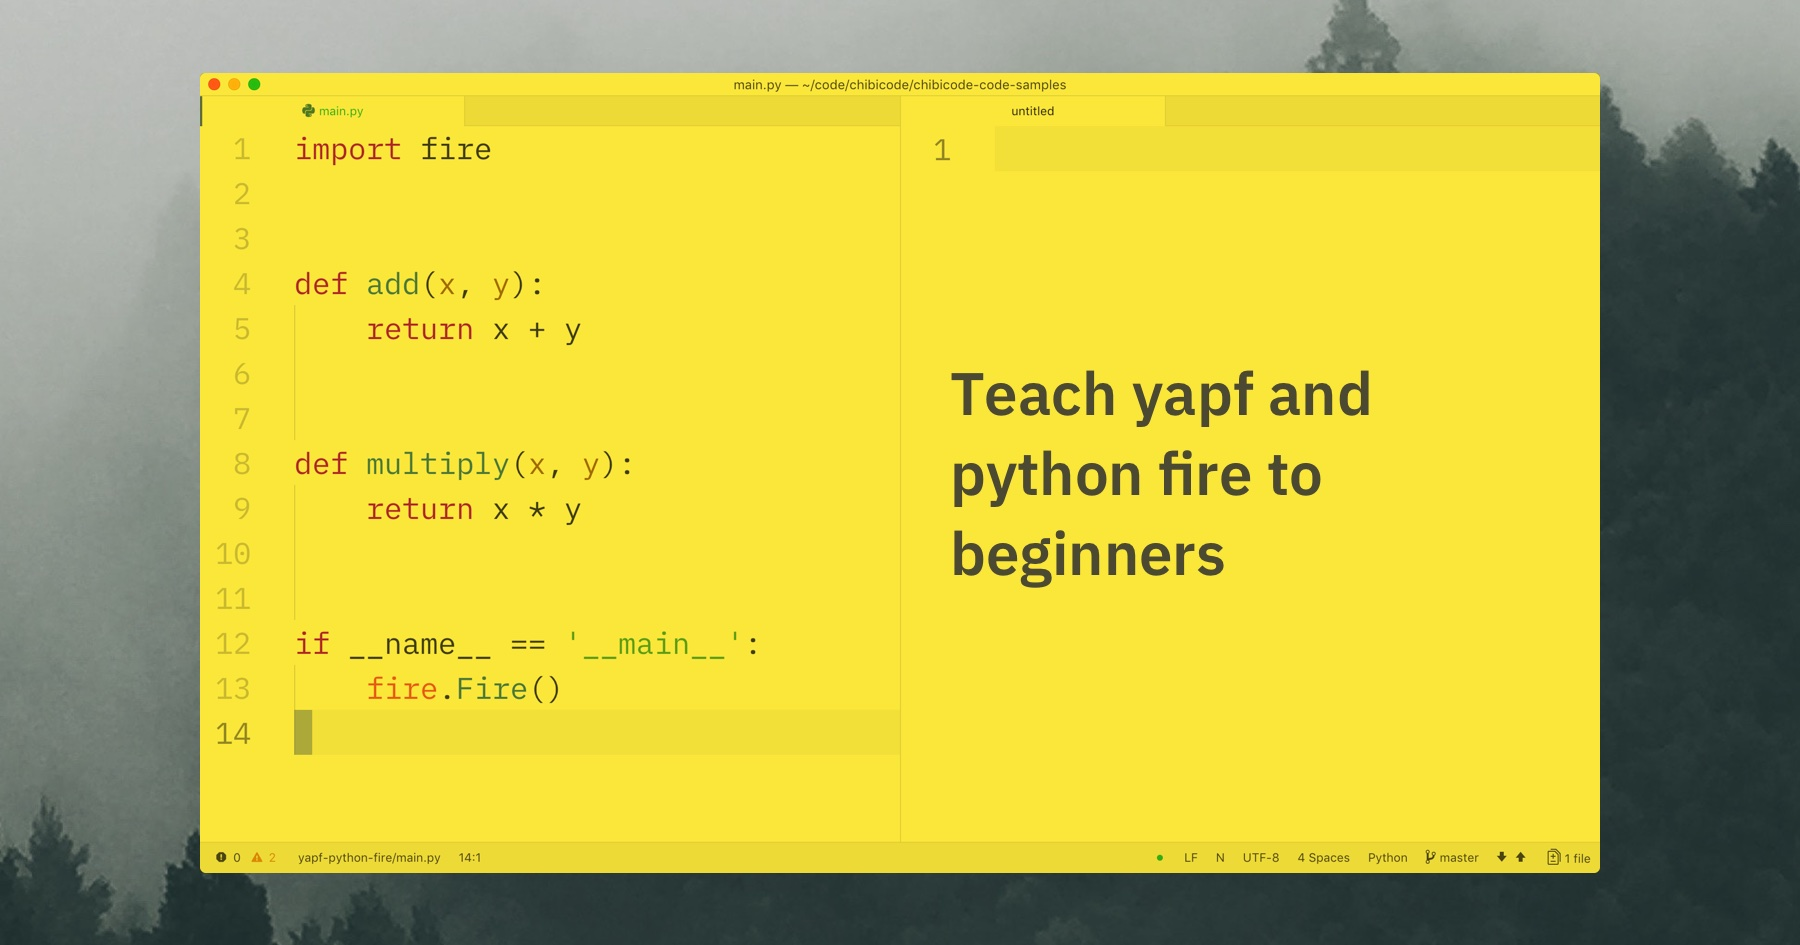
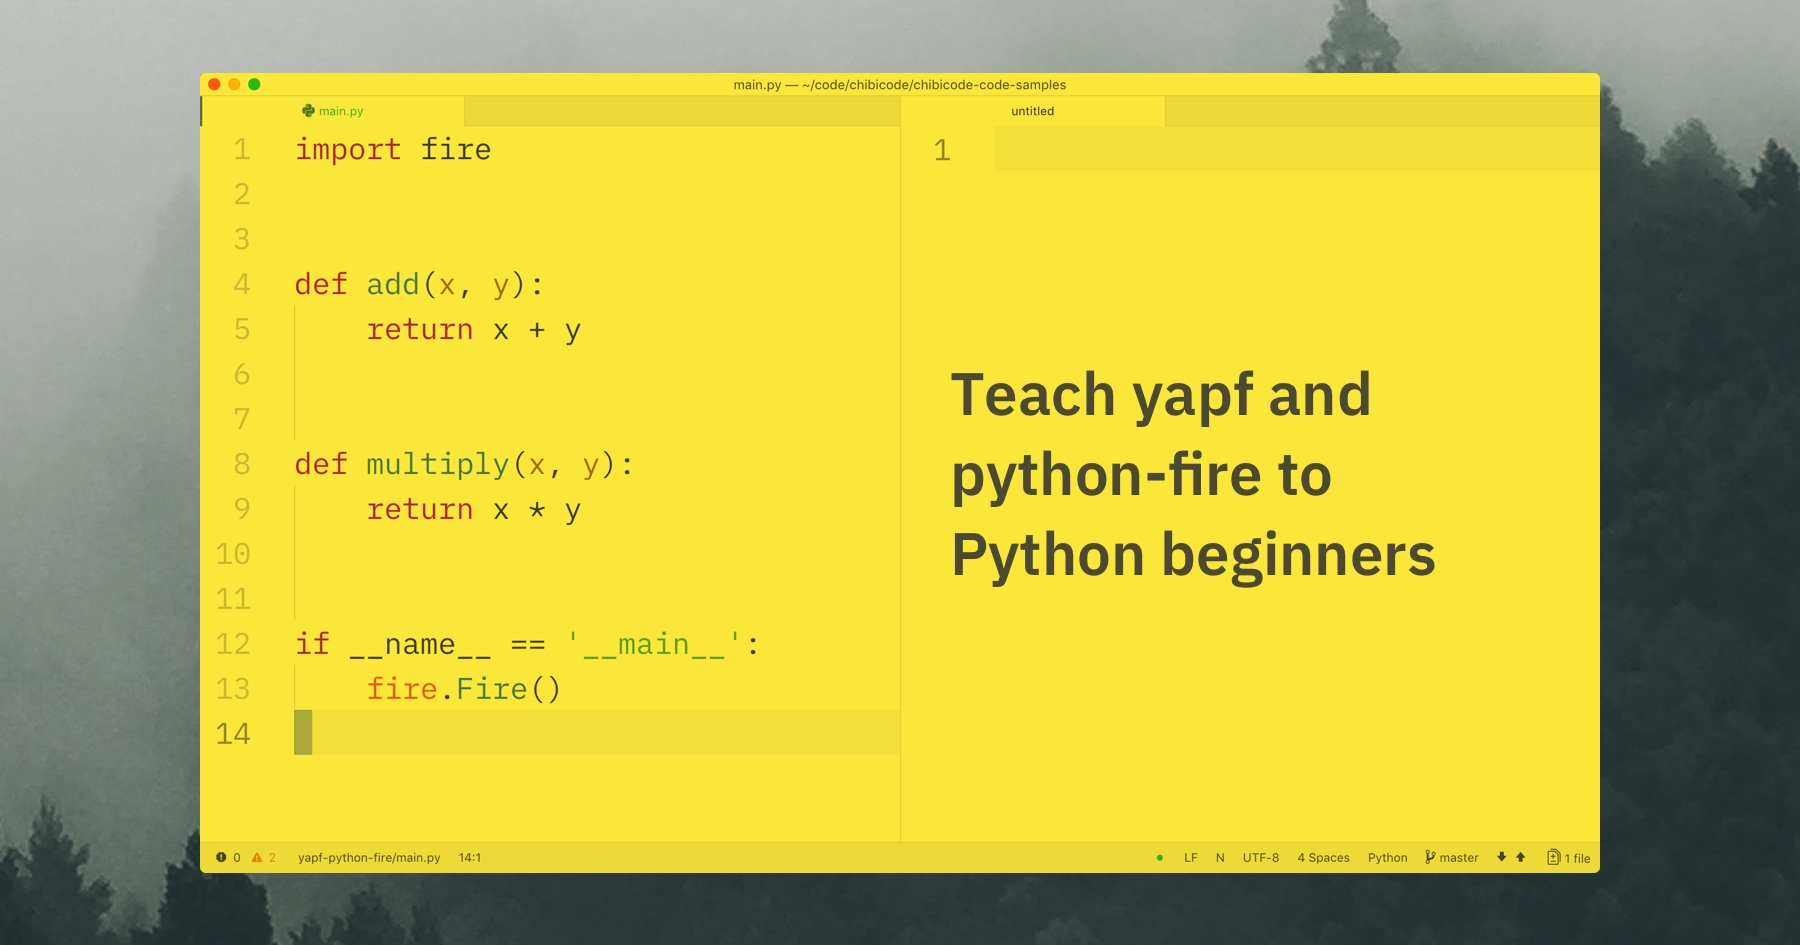
yapf and python fire

Changed region(s): [[0.5289, 0.5524, 0.8089, 0.6444], [0.6222, 0.4603, 0.7467, 0.5217]]

diff --git a/src/pages/posts/yapf-python-fire/index.md b/src/pages/posts/yapf-python-fire/index.md
@@ -1,7 +1,187 @@
 ---
-title: 'Teach yapf and python fire to beginners'
+title: 'Teach yapf and python-fire to python beginners'
 date: "2018-03-27T02:00:00.000Z"
 image: "./cover.jpg"
-draft: true
 twitterId: null
 ---
+
+As of today, Google has released two popular Python tools:
+
+* **[`yapf`](https://github.com/google/yapf)** (released [3 years ago](https://opensource.googleblog.com/2015/03/how-to-format-python-code-without.html))
+* **[`python-fire`](https://github.com/google/python-fire)** (released [1 year ago](https://opensource.googleblog.com/2017/03/python-fire-command-line.html)).
+
+I'm currently teaching Python to a beginner programmer, and I found that these tools work great for beginners. Here's why.
+
+<post-separator></post-separator>
+
+**First, some background:** Here's a quote from David Robinson, a Chief Data Scientist at DataCamp.
+
+The title of the article is: **[Don't teach students the hard way first](http://varianceexplained.org/r/teach-hard-way/)**.
+
+> I talk to people about teaching a lot, and that phrase keeps popping up: “**I teach them X just to show them how much easier Y is**”. It’s a trap—a trap I’ve fallen into before when teaching, and one that I’d like to warn others against.
+
+**Example** (in R programming):
+
+> “I teach them `dplyr`’s `group_by`/`summarize` in the second lesson, but I teach them loops first just to show them how much easier `dplyr` is.”
+
+**Why avoid this style of teaching?**:
+
+> I worked in an object-oriented style in Python, then switched to thinking in data frames and functional operations. I wrote too many loops when I started R, then I grew accustomed to the apply family of functions.… But when I’m teaching someone how to use R… **they don’t care about any of that.**
+
+**Why do teachers fall into this trap?**:
+
+> … I think some teachers hope that by walking students through this “journey”, we can impart some of that experience. But it doesn’t work: feeding students two possible solutions in a row is nothing like the experience of them comparing solutions for themselves, and doesn’t grant them any of the same skills.
+>
+> … Students should absolutely learn multiple approaches (there’s usually advantages to each one). But **not in this order**, from hardest to easiest, and not because it happened to be the order we learned it ourselves.
+
+**Your time is limited:**
+
+> This comes down to what I sometimes call **educational bandwidth**: the total amount of information you can communicate to students is limited, especially since you need to spend time reinforcing and revisiting each concept.… This means you should make sure every idea you get across is valuable. If you teach them a method they’ll never have to use, you’re wasting time and energy.
+
+**Summary:**
+
+> In conclusion: **teaching programming is hard, don’t make it harder.** Next time you’re teaching…, try teaching them your preferred method first, instead of meandering through subpar solutions. I think you’ll find that it’s worth it.
+
+I agree completely. Now, back to `yapf` and `python-fire`.
+
+## 1. What is `yapf`, and why is it good for beginners?
+
+`yapf` is one of the newest code formatters for Python, made by Google.
+
+**[Why Google made `yapf`](https://github.com/google/yapf):**
+
+> The ultimate goal is that the code YAPF produces is as good as the code that a programmer would write if they were following the style guide. It takes away some of the drudgery of maintaining your code.
+
+**Why it's good for beginners:** Don't waste students' time by forcing them to format Python code by hand.
+
+Most coding beginners seem to spend significant cognitive energy in formatting code, as opposed to thinking about logic. Let `yapf` do formatting for them.
+
+**Disclaimer:** I _do_ think it's important to make beginners type lots of code, as Zed Shaw of "[Learn to Code the Hard Way](https://learncodethehardway.org/)" says [on this article](https://zedshaw.com/2017/04/24/copying-repetition/). But typing != formatting.
+
+**See `yapf` in action:** [`yapf`](https://github.com/google/yapf) can take this ugly code (from the [official README](https://github.com/google/yapf)):
+
+```python
+x = {  'a':37,'b':42,
+
+'c':927}
+
+y = 'hello ''world'
+z = 'hello '+'world'
+a = 'hello {}'.format('world')
+class foo  (     object  ):
+  def f    (self   ):
+    return       37*-+2
+  def g(self, x,y=42):
+      return y
+def f  (   a ) :
+  return      37+-+a[42-x :  y**3]
+```
+
+and reformat it into:
+
+```python
+x = {'a': 37, 'b': 42, 'c': 927}
+
+y = 'hello ' 'world'
+z = 'hello ' + 'world'
+a = 'hello {}'.format('world')
+
+
+class foo(object):
+    def f(self):
+        return 37 * -+2
+
+    def g(self, x, y=42):
+        return y
+
+
+def f(a):
+    return 37 + -+a[42 - x:y**3]
+```
+
+**Editor support:**
+
+* [Atom](http://atom.io/) support using [atom-beautify](https://github.com/Glavin001/atom-beautify) or [ide-python](https://github.com/lgeiger/ide-python).
+* [Visual Studio Code](https://github.com/Microsoft/vscode-python) support using [vscode-python](https://github.com/Microsoft/vscode-python).
+* [Sublime Text](https://www.sublimetext.com/) support using [PyYapf](https://github.com/jason-kane/PyYapf)
+
+## 2. What is `python-fire`, and why is it good for beginners?
+
+`python-fire` is a library for automatically generating command line interfaces (CLIs) from any Python object.
+
+**[Why Google made `python-fire`](https://opensource.googleblog.com/2017/03/python-fire-command-line.html):**
+
+> At Google, engineers use Python Fire to generate command line tools from Python libraries.… In Google Brain, we use an experiment management tool built with Fire, allowing us to manage experiments equally well from Python or from Bash.
+
+**Why it's good for beginners:** Don't waste students' time by forcing them to learn confusing `argv` API. `python-fire` is a lot more intuitive and powerful.
+
+**Example:** Suppose you want to write a command line program to add two or three numbers:
+
+```
+python calculator.py add_two 10 20
+python calculator.py add_three 10 20 30
+```
+
+The first line should print 30, and the second line should print 60.
+
+### Without `python-fire`
+
+```python
+from sys import argv
+
+
+def add_two(x, y):
+    return x + y
+
+
+def add_three(x, y, z):
+    return x + y + z
+
+
+if __name__ == "__main__":
+    if argv[1] == "add_2":
+        print(add_two(int(argv[2]), int(argv[3])))
+    elif argv[1] == "add_3":
+        print(add_three(int(argv[2]), int(argv[3]), int(argv[4])))
+```
+
+**Reflections:** Inside `__name__ == "__main__":` can get ugly. Beginners need to remember:
+
+* `argv[1]` contains the first argument
+* `argv[...]` returns strings, so they need to be converted to `int`
+
+And if argument length can be of variable length, it's much more difficult.
+
+### With `python-fire`
+
+**Get Started:** First, install `python-fire` (notice the package name is `fire`). We should encourage beginners to install packages, because they'll be doing that often later.
+
+```
+pip install fire
+```
+
+Then, the code is easy:
+
+```python
+import fire
+
+
+def add_two(x, y):
+    return x + y
+
+
+def add_three(x, y, z):
+    return x + y + z
+
+
+if __name__ == '__main__':
+    fire.Fire()
+```
+
+**That's it!** You pretty much don't need to write anything under `__name__ == "__main__":`.
+
+And that's the simplest possible case - for more complex cases, it'd be much easier to build on top of [`python-fire`](https://github.com/google/python-fire/). I think there's no reason to teach beginners the subpar `sys.argv` API at this point.
+
+## Code sample
+
+[Available on GitHub](https://github.com/chibicode/chibicode-code-samples/tree/master/yapf-python-fire).
